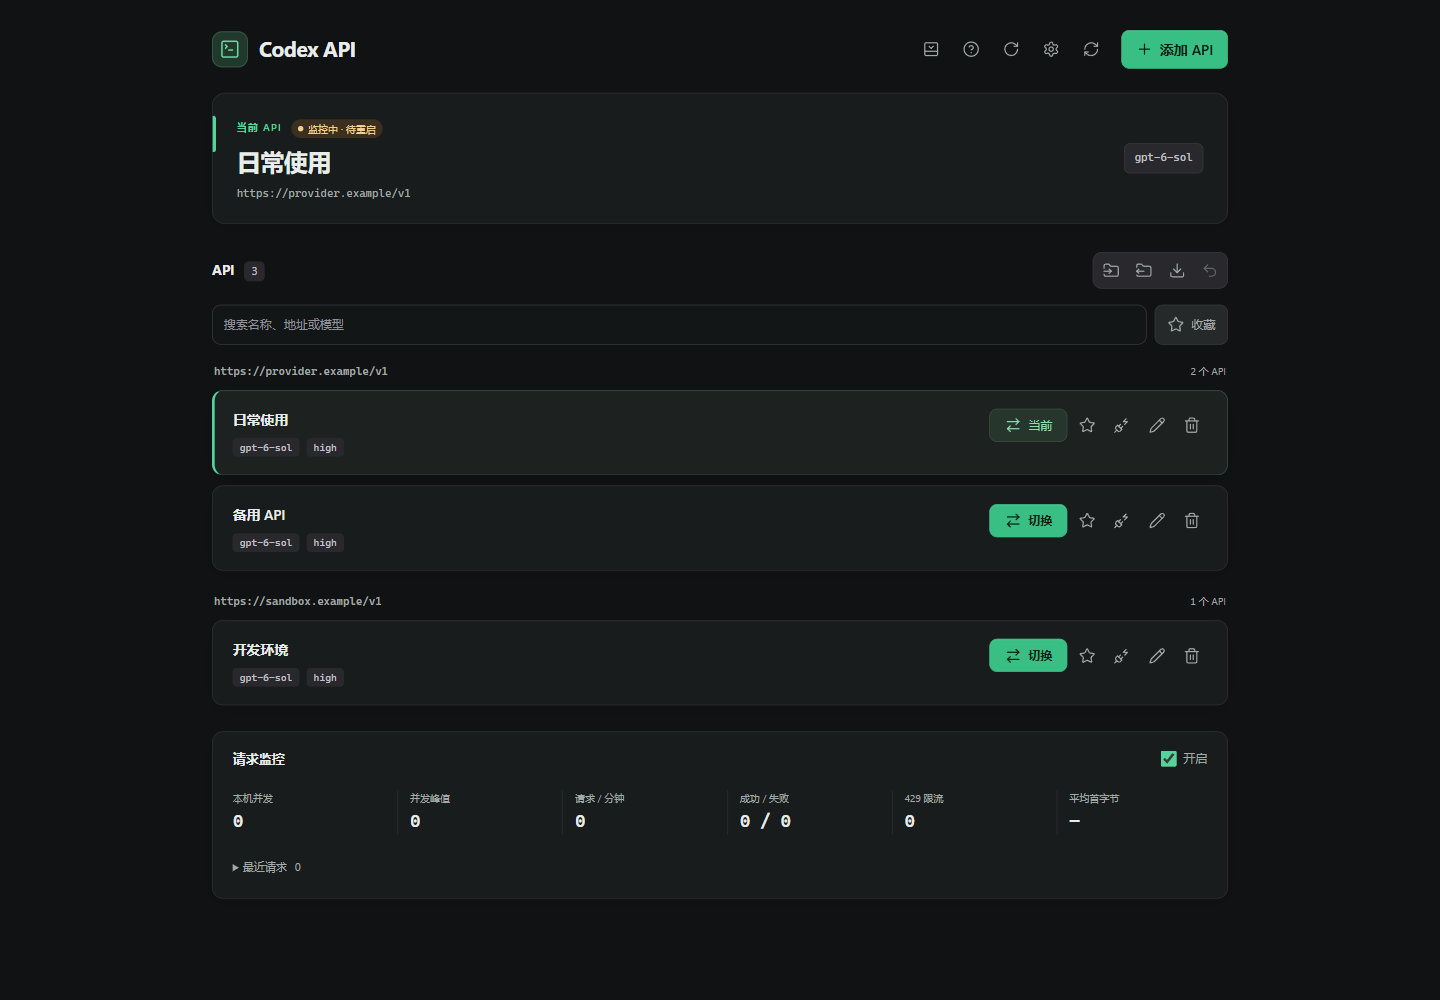
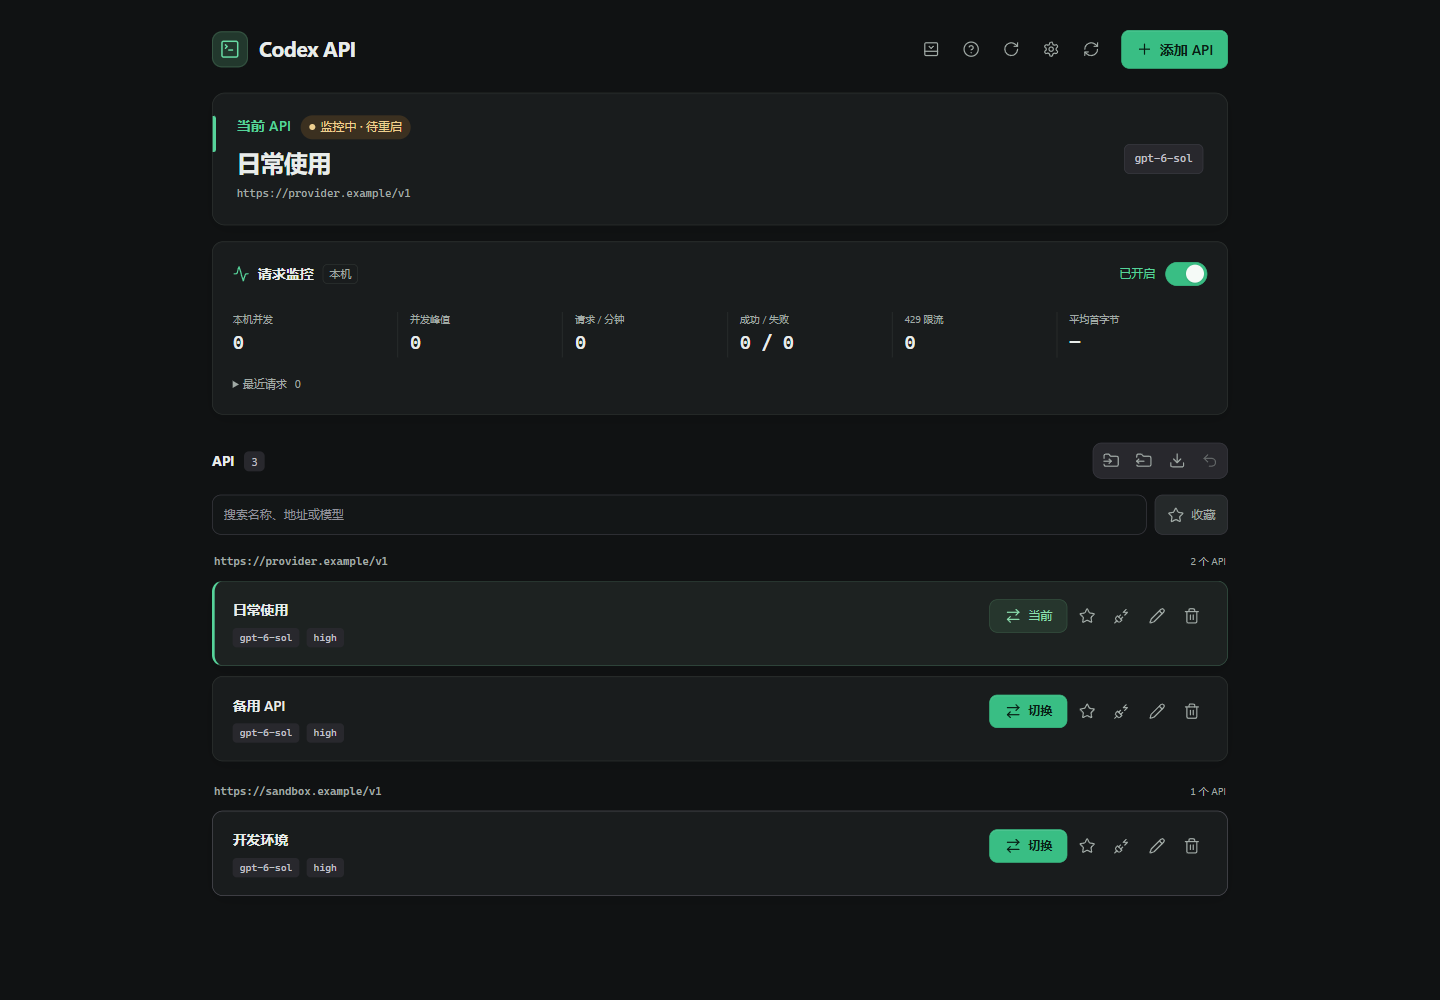
Organize settings and improve the connection and request monitor interface

diff --git a/public/index.html b/public/index.html
@@ -8,6 +8,7 @@
   <meta http-equiv="Content-Security-Policy" content="default-src 'self'; script-src 'self'; style-src 'self'; img-src 'self' data:; connect-src 'self'; form-action 'self'">
   <link rel="stylesheet" href="./style.css">
   <link rel="stylesheet" href="./visual-polish.css">
+  <link rel="stylesheet" href="./workspace-ui.css">
   <script src="./theme.js"></script>
   <script src="./lucide.js" defer></script>
   <script src="./app.js" defer></script>
@@ -37,6 +38,13 @@
       <div><span class="eyebrow">当前 API</span><span id="connection-status" class="connection-status" role="status"></span><div id="current-name" class="current-name">读取中...</div><div id="current-url" class="mono"></div></div>
       <div id="current-model" class="mono"></div>
     </section>
+    <section class="monitor-section" aria-label="实时请求监控">
+      <div class="monitor-heading"><h2><i data-lucide="activity"></i>请求监控</h2><span class="monitor-scope">本机</span><label class="monitor-toggle monitor-switch" title="监控本机请求；开关后需重启 Codex，开启期间保持本工具运行。"><input type="checkbox" id="monitor-toggle" role="switch" aria-label="请求监控"><span id="monitor-toggle-label">未开启</span></label></div>
+      <div id="monitor-body" hidden>
+        <div id="monitor-stats" class="monitor-stats"></div>
+        <details id="request-details"><summary>最近请求 <span id="request-count">0</span></summary><div class="requests-scroll"><table class="request-table"><thead><tr><th>时间</th><th>API / 模型</th><th>状态</th><th>首字节</th><th>耗时</th></tr></thead><tbody id="request-rows"></tbody></table></div></details>
+      </div>
+    </section>
     <div id="notice" class="notice" role="status" hidden></div>
     <section id="update-banner" class="update-banner" aria-label="软件更新" hidden><div class="restart-card-heading"><span>软件更新</span><button id="close-update-reminder" class="icon" type="button" title="稍后更新" aria-label="稍后更新"><i data-lucide="x"></i></button></div><strong id="update-title">发现新版本</strong><p id="update-detail" role="status">保留 API 配置与 Key。</p><div class="restart-card-actions"><button id="install-update" class="primary" type="button"><i data-lucide="download"></i><span>更新并重启</span></button><button id="update-later" class="plain" type="button">稍后</button></div></section>
     <section id="restart-reminder" class="restart-reminder" aria-label="重启提醒" hidden><div class="restart-card-heading"><span>配置待生效</span><button id="close-restart-reminder" class="icon" title="稍后重启" aria-label="稍后重启"><i data-lucide="x"></i></button></div><strong>重启 Codex</strong><p>重新加载配置，继续你的对话。</p><div class="restart-card-actions"><button id="restart-now" class="primary"><i data-lucide="rotate-cw"></i>立即重启</button><button id="restart-later" class="plain">稍后</button></div></section>
@@ -46,13 +54,6 @@
       <div class="api-filters"><input id="api-search" type="search" placeholder="搜索名称、地址或模型" aria-label="搜索 API"><button id="favorites-only" type="button" aria-pressed="false"><i data-lucide="star"></i>收藏</button></div>
       <div id="delete-undo" class="delete-undo" role="status" hidden><span id="delete-undo-text"></span><button id="undo-delete" type="button" class="plain">撤销删除</button></div>
       <div id="profiles" class="profiles"></div>
-    </section>
-    <section class="monitor-section" aria-label="实时请求监控">
-      <div class="monitor-heading"><h2>请求监控</h2><label class="monitor-toggle" title="监控本机请求；开关后需重启 Codex，开启期间保持本工具运行。"><input type="checkbox" id="monitor-toggle"><span>开启</span></label></div>
-      <div id="monitor-body" hidden>
-        <div id="monitor-stats" class="monitor-stats"></div>
-        <details id="request-details"><summary>最近请求 <span id="request-count">0</span></summary><div class="requests-scroll"><table class="request-table"><thead><tr><th>时间</th><th>API / 模型</th><th>状态</th><th>首字节</th><th>耗时</th></tr></thead><tbody id="request-rows"></tbody></table></div></details>
-      </div>
     </section>
   </main>
   <dialog id="editor">
@@ -96,19 +97,42 @@
   <dialog id="settings-dialog">
     <form id="settings-form">
       <div class="dialog-heading"><h2>设置</h2><button type="button" id="close-settings" class="icon" title="关闭"><i data-lucide="x"></i></button></div>
-      <label>外观<select id="theme-select"><option value="light">浅色</option><option value="dark">深色</option><option value="system">跟随系统</option></select></label>
+      <div class="settings-layout">
+        <nav class="settings-nav" role="tablist" aria-label="设置分类">
+          <button type="button" id="settings-tab-general" role="tab" aria-selected="true" aria-controls="settings-panel-general" data-settings-tab="general"><i data-lucide="sliders-horizontal"></i>外观与更新</button>
+          <button type="button" id="settings-tab-data" role="tab" aria-selected="false" aria-controls="settings-panel-data" tabindex="-1" data-settings-tab="data"><i data-lucide="folder-open"></i>数据与日志</button>
+          <button type="button" id="settings-tab-support" role="tab" aria-selected="false" aria-controls="settings-panel-support" tabindex="-1" data-settings-tab="support"><i data-lucide="wrench"></i>问题排查</button>
+        </nav>
+        <div class="settings-content">
+          <section id="settings-panel-general" role="tabpanel" aria-labelledby="settings-tab-general">
+            <h3>外观</h3>
+      <label class="setting-row">主题<select id="theme-select"><option value="light">浅色</option><option value="dark">深色</option><option value="system">跟随系统</option></select></label>
+      <h3 class="settings-section-title">软件更新</h3>
       <div class="update-control"><div><strong id="update-version">软件更新</strong><p id="update-status-text" role="status">检查 GitHub 发布版本</p></div><button id="check-update" type="button">检查更新</button></div>
       <label class="monitor-toggle"><input id="auto-updates" type="checkbox"><span>自动检查更新</span></label>
+
+          </section>
+          <section id="settings-panel-data" role="tabpanel" aria-labelledby="settings-tab-data" hidden>
+            <h3>数据存储</h3>
       <label>数据目录<div class="path-control"><input id="data-path" readonly><button type="button" data-open-dir="data" class="icon" title="打开数据目录（包含密钥）"><i data-lucide="folder-open"></i></button></div></label>
+      <h3 class="settings-section-title">日志</h3>
       <div class="log-controls"><label class="monitor-toggle"><input id="logging-enabled" type="checkbox"><span>保存日志</span></label><div><button type="button" data-open-dir="logs" class="icon" title="打开日志" aria-label="打开日志"><i data-lucide="folder-open"></i></button><button type="button" id="clear-logs" class="icon" title="清空日志" aria-label="清空日志"><i data-lucide="trash-2"></i></button></div></div>
-      <div class="diagnostic-control"><div><strong>问题排查</strong><p>诊断不含 Key 或对话</p></div><button id="export-diagnostics" type="button"><i data-lucide="file-down"></i>导出诊断</button></div>
-      <label>保留时间<select id="retention-days"><option value="7">7 天</option><option value="30">30 天</option><option value="90">90 天</option></select></label>
+      <label class="setting-row">保留时间<select id="retention-days"><option value="7">7 天</option><option value="30">30 天</option><option value="90">90 天</option></select></label>
       <details id="storage-details" class="options"><summary>文件位置</summary><div class="options-body">
       <div class="storage-path"><span>日志</span><div><code id="log-path"></code></div></div>
       <div class="storage-path"><span>设置文件</span><div><code id="settings-path"></code><button type="button" data-open-dir="settings" class="icon" title="打开设置目录"><i data-lucide="folder-open"></i></button></div></div>
       <div class="storage-path"><span>Codex 配置目录</span><div><code id="codex-path"></code><button type="button" data-open-dir="config" class="icon" title="打开 Codex 配置目录"><i data-lucide="folder-open"></i></button></div></div>
       <div class="storage-path"><span>缓存</span><div><code id="cache-path"></code><button type="button" data-open-dir="cache" class="icon" title="打开缓存目录"><i data-lucide="folder-open"></i></button></div></div>
       </div></details>
+
+          </section>
+          <section id="settings-panel-support" role="tabpanel" aria-labelledby="settings-tab-support" hidden>
+            <h3>问题排查</h3>
+      <div class="diagnostic-control"><div><strong>诊断文件</strong><p>不含 Key 或对话</p></div><button id="export-diagnostics" type="button"><i data-lucide="file-down"></i>导出诊断</button></div>
+
+          </section>
+        </div>
+      </div>
       <div id="settings-notice" class="notice" role="status" hidden></div>
       <div class="dialog-actions"><button type="button" id="cancel-settings">取消</button><button type="submit" id="save-settings" class="primary"><i data-lucide="check"></i>保存</button></div>
     </form>

diff --git a/public/workspace-ui.css b/public/workspace-ui.css
@@ -1,0 +1,59 @@
+/* Current connection, monitor placement and categorized settings. */
+.current .eyebrow { font-size: 14px; letter-spacing: .2px; }
+.current .connection-status { font-size: 12px; padding: 3px 9px; font-weight: 500; vertical-align: 1px; }
+.connection-status::before { width: 6px; height: 6px; }
+main > .monitor-section { margin-top: 16px; padding: 16px 20px; }
+.monitor-heading { justify-content: flex-start; gap: 9px; }
+.monitor-heading h2 { display: flex; gap: 8px; align-items: center; font-size: 14px; }
+.monitor-heading h2 .lucide { color: var(--accent); width: 17px; height: 17px; }
+.monitor-heading .monitor-toggle { margin-left: auto; }
+.monitor-heading .monitor-switch { flex-direction: row-reverse; gap: 10px; min-height: 32px; }
+#monitor-toggle { appearance: none; -webkit-appearance: none; position: relative; flex: none; width: 42px; height: 24px; padding: 0; margin: 0; border: 1px solid #bcc9c1; border-radius: 99px; background: #dce4df; cursor: pointer; }
+#monitor-toggle::after { content: ''; position: absolute; top: 2px; left: 2px; width: 18px; height: 18px; border-radius: 50%; background: #fff; box-shadow: 0 1px 3px #00000025; }
+#monitor-toggle:checked { background: var(--accent); border-color: var(--accent); }
+#monitor-toggle:checked::after { transform: translateX(18px); }
+#monitor-toggle:disabled { cursor: wait; }
+.monitor-switch:has(input:checked) #monitor-toggle-label { color: var(--accent); }
+[data-theme="dark"] #monitor-toggle:not(:checked) { background: #353d39; border-color: #53615a; }
+[data-theme="dark"] #monitor-toggle:checked { background: #39be84; border-color: #39be84; }
+[data-theme="dark"] #monitor-toggle::after { background: #f5faf7; }
+@media (prefers-reduced-motion: no-preference) {
+  #monitor-toggle::after { transition: transform .16s ease; }
+}
+.monitor-scope { color: var(--muted); border: 1px solid var(--line); border-radius: 5px; padding: 1px 6px; font-size: 11px; }
+.monitor-stats { margin: 18px 0 12px; }
+.monitor-stats .metric strong { font-size: 19px; }
+dialog#settings-dialog { width: min(740px, calc(100% - 32px)); padding: 0; overflow: hidden; }
+#settings-form { display: flex; flex-direction: column; max-height: calc(100dvh - 34px); }
+#settings-form > .dialog-heading { margin: 0; padding: 20px 24px; border-bottom: 1px solid var(--line); flex: none; }
+.settings-layout { display: grid; grid-template-columns: 165px minmax(0, 1fr); min-height: 330px; overflow: auto; }
+.settings-nav { padding: 18px 12px; background: #f5f8f6; border-right: 1px solid var(--line); }
+.settings-nav button { justify-content: flex-start; width: 100%; margin-bottom: 5px; background: transparent; border-color: transparent; font-size: 12px; padding: 10px; }
+.settings-nav button[aria-selected="true"] { color: var(--accent); background: #e4f0e8; font-weight: 600; }
+.settings-nav .lucide { width: 16px; height: 16px; }
+.settings-content { padding: 24px; min-width: 0; }
+.settings-content h3 { font-size: 14px; font-weight: 600; margin: 0 0 18px; }
+.settings-content h3.settings-section-title { padding-top: 22px; border-top: 1px solid var(--line); margin: 24px 0 18px; }
+.settings-content label { font-size: 12px; }
+.settings-content .setting-row { flex-direction: row; justify-content: space-between; align-items: center; gap: 20px; }
+.settings-content .setting-row select { width: 160px; }
+.settings-content .update-control { margin: 0 0 18px; }
+.settings-content .log-controls { margin: 0 0 18px; }
+.settings-content .diagnostic-control { border: 0; padding: 0; margin: 0; align-items: flex-start; }
+.settings-content .path-control input { font-size: 12px; }
+.settings-content #storage-details { margin-top: 22px; }
+#settings-form > .dialog-actions { margin: 0; padding: 16px 24px; flex: none; }
+#settings-form > #settings-notice { margin: 0 24px 12px; flex: none; }
+[data-theme="dark"] .settings-nav { background: #151819; }
+[data-theme="dark"] .settings-nav button[aria-selected="true"] { background: #22342a; color: #87dcad; border-color: transparent; }
+@media (max-width: 640px) {
+  main > .monitor-section { padding: 14px 16px; }
+  .settings-layout { display: flex; flex-direction: column; min-height: 0; }
+  .settings-nav { display: flex; padding: 9px 12px; gap: 4px; border-right: 0; border-bottom: 1px solid var(--line); }
+  .settings-nav button { width: auto; flex: 1; margin: 0; justify-content: center; padding: 8px 4px; font-size: 11px; gap: 5px; }
+  .settings-nav .lucide { width: 14px; height: 14px; }
+  .settings-content { padding: 20px; min-height: 290px; }
+  #settings-form > .dialog-heading { padding: 16px 20px; }
+  #settings-form > .dialog-actions { padding: 14px 20px; }
+  .monitor-stats .metric strong { font-size: 17px; }
+}

diff --git a/public/app.js b/public/app.js
@@ -271,6 +271,7 @@ function milliseconds(value) { return value == null ? '—' : value < 1000 ? `${
 function renderMetrics(m) {
   if (!m) return;
   $('monitor-toggle').checked = m.enabled;
+  $('monitor-toggle-label').textContent = m.enabled ? '已开启' : '未开启';
   $('monitor-toggle').disabled = busy;
   const hasData = m.enabled || m.active || m.success || m.failed;
   $('monitor-body').hidden = !hasData;
@@ -522,7 +523,28 @@ function renderSettings() {
   $('cache-path').textContent = state.cacheDir;
   settingsNotice(s.warning || '', !!s.warning);
 }
-$('settings').onclick = async () => { if (busy || !state.settings) return; try { await load(); renderSettings(); $('storage-details').open = false; $('settings-dialog').showModal(); icons(); } catch (e) { notice(e.message, true); } };
+function selectSettingsTab(name, focus = false) {
+  for (const tab of document.querySelectorAll('[data-settings-tab]')) {
+    const selected = tab.dataset.settingsTab === name;
+    tab.setAttribute('aria-selected', String(selected));
+    tab.tabIndex = selected ? 0 : -1;
+    $(tab.getAttribute('aria-controls')).hidden = !selected;
+    if (selected && focus) tab.focus();
+  }
+}
+for (const tab of document.querySelectorAll('[data-settings-tab]')) {
+  tab.onclick = () => selectSettingsTab(tab.dataset.settingsTab);
+  tab.onkeydown = event => {
+    const tabs = [...document.querySelectorAll('[data-settings-tab]')];
+    const index = tabs.indexOf(tab);
+    const step = ['ArrowRight', 'ArrowDown'].includes(event.key) ? 1 : ['ArrowLeft', 'ArrowUp'].includes(event.key) ? -1 : 0;
+    if (!step && !['Home', 'End'].includes(event.key)) return;
+    event.preventDefault();
+    const target = event.key === 'Home' ? 0 : event.key === 'End' ? tabs.length - 1 : (index + step + tabs.length) % tabs.length;
+    selectSettingsTab(tabs[target].dataset.settingsTab, true);
+  };
+}
+$('settings').onclick = async () => { if (busy || !state.settings) return; try { await load(); renderSettings(); selectSettingsTab('general'); $('storage-details').open = false; $('settings-dialog').showModal(); icons(); } catch (e) { notice(e.message, true); } };
 $('close-settings').onclick = $('cancel-settings').onclick = () => $('settings-dialog').close();
 $('theme-select').onchange = () => window.managerTheme.apply($('theme-select').value);
 $('settings-dialog').addEventListener('close', () => window.managerTheme.apply(state.settings?.theme, true));

diff --git a/README.md b/README.md
@@ -34,7 +34,7 @@
 
 ![深色主题实际界面](docs/assets/app-preview-dark.png)
 
-在「设置 → 外观」选择浅色、深色或跟随系统，点击保存。
+在「设置 → 外观与更新 → 主题」选择浅色、深色或跟随系统，点击保存。
 
 </details>
 
@@ -46,7 +46,7 @@
 | **搜索、收藏与撤销** | 搜索名称、地址或模型，收藏常用 API；删除后 30 秒内可恢复原 Key 和设置。 |
 | **模型查询与托盘** | 查询并选择服务商模型；托盘菜单直接切换 API、重启 Codex、打开主窗口。 |
 | **用量与连接测试** | 勾选批量刷新并记住选择，查询服务商支持的余额、额度或累计用量；确认后可发送“你好”测试连接。 |
-| **本机请求监控** | 查看经过本机代理的并发、请求状态、限流次数和耗时。 |
+| **本机请求监控** | 当前 API 下方集中查看本机并发、请求状态、限流次数和耗时，滑动开关控制监控。 |
 | **配置分享** | 导入配置，或选择部分 API 导出，Key 一起携带。 |
 | **便携与恢复** | 数据放在 EXE 旁，支持加密备份与撤销切换，无需重新安装工具。 |
 | **浅色 / 深色主题** | 设置中切换外观或跟随系统，选择随便携配置保留；整体布局与操作保持一致。 |
